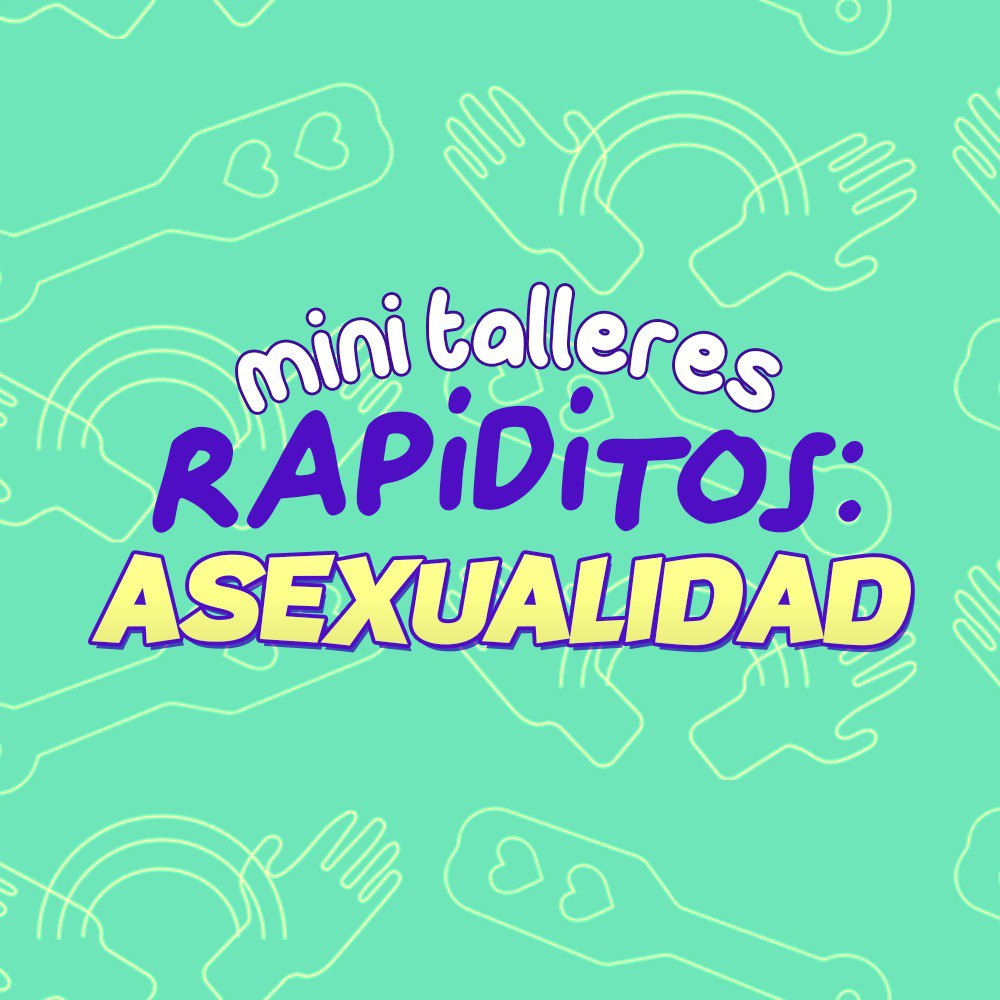
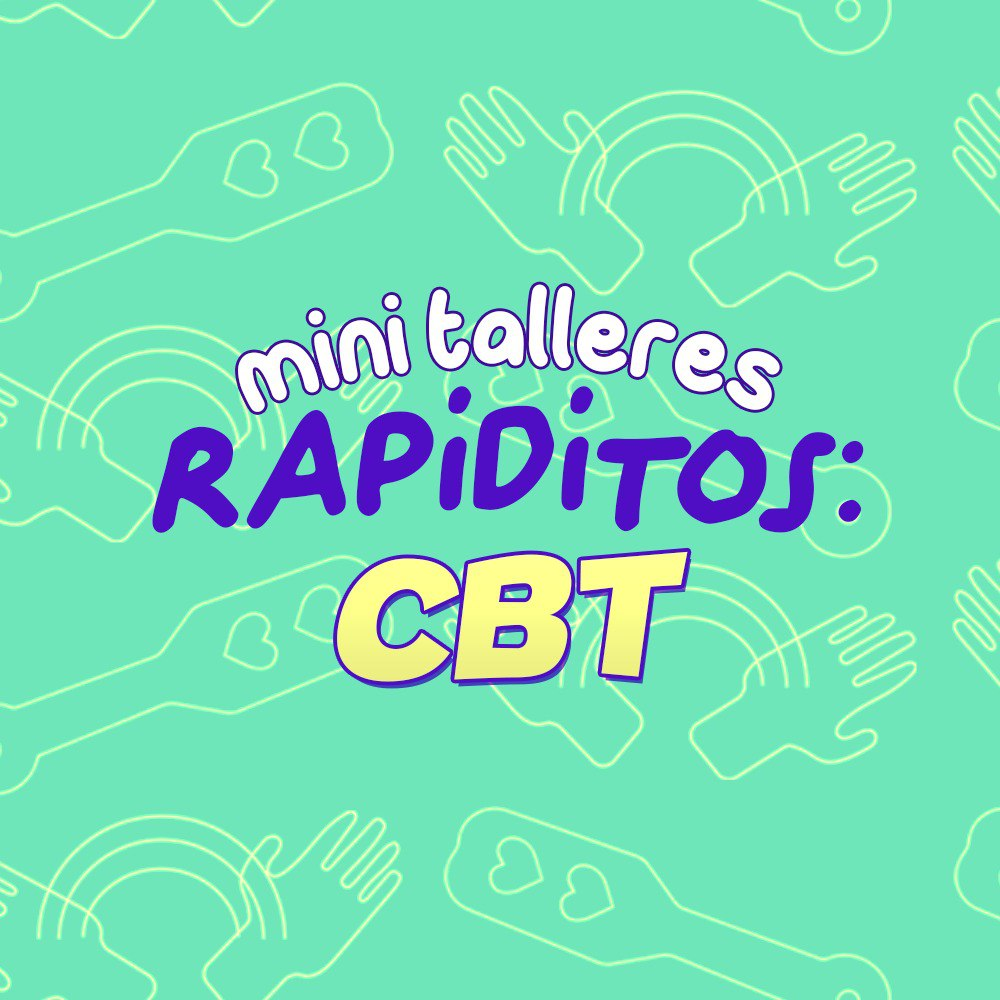
add 3 new events and update a thumbnail

Changed region(s): [[0.093, 0.527, 0.93, 0.713]]

diff --git a/src/lib/utils/hardcodedTags.js b/src/lib/utils/hardcodedTags.js
@@ -63,6 +63,7 @@ export const hardcodedTags = [
 			'jam de cuerdas',
 			'laboratorio',
 			'perfo',
+			'poesía',
 			'rancheadita',
 			'sesión en vivo',
 			'taller'
@@ -80,6 +81,7 @@ export const hardcodedTags = [
 	{ id: 'jam de cuerdas', icon: '🪢' },
 	{ id: 'laboratorio', icon: '🧪' },
 	{ id: 'perfo', icon: '🤹♂' },
+	{ id: 'poesía', icon: '✍'},
 	{ id: 'rancheadita', icon: '🧺' },
 	{ id: 'sesión en vivo', icon: '🏇' },
 	{ id: 'taller', icon: '🎓' },

diff --git a/src/lib/posts/calendario/punitivismo-teoria-y-practica-2024-09.md b/src/lib/posts/calendario/punitivismo-teoria-y-practica-2024-09.md
@@ -1,0 +1,57 @@
+---
+published_date: 2024-09-07Z-03:00
+#updated_date:   2024-03-04Z-03:00
+title: "Punitivismo: teoría y práctica (parte 1 de 2)"
+summary: '¿Cómo lidiamos con los conflictos y la violencia entre nosotres? Aprendé teoría sobre punitivismo y sumate a discutir alternativas al castigo y la cancelación en un contexto de creciente violencia social.'
+tags:
+  - español
+  # - KinkyVibe # etiqueta especial #
+  - pago # pago | gratis | a la gorra #
+  - Online # online | AMBA | Córdoba | Santa Cruz #
+  - taller
+  - antipunitivismo
+layout: calendario
+category: calendario
+authors:
+  - FugasCriticas
+  - Naza Roviello
+featured: 1
+#logo: 2
+#force_unlisted: false
+#force_unpublished: false
+status: abierto # anunciado | abierto | agotadas | cancelado #
+# opening_date: 2023-10-20Z-03:00
+start: 2024-09-28T10:30-03:00
+end:   2024-09-28T12:30-03:00
+#location: Thames 240, Ciudad Autónoma de Buenos Aires
+#location_name: Cooperativa Cultural Qi
+link: 'https://forms.gle/PSLuNbmFEqetX1MY6'
+link_text: SUMATE
+---
+(esta es la parte 1, [ver parte 2](/calendario/punitivismo-teoria-y-practica-2024-09-parte-2))
+
+## ¿De qué se trata esta propuesta? ##
+
+**¿Cómo lidiamos con los conflictos y la violencia entre nosotres?**
+
+Aprendé teoría sobre punitivismo y sumate a discutir alternativas al castigo y la cancelación en un contexto de creciente violencia social.
+
+En este taller, te invitamos a:
+
+🤓 **ENCUENTRO 1**: Aprender teoría, historia y perspectivas sobre punitivismo. Analizaremos cómo nos afecta a nivel macro, en las estructuras carcelarias e institucionales, y a nivel micro, en nuestras relaciones más cercanas.
+
+🤓 **ENCUENTRO 2**: Participar en una discusión grupal dinámica basada en situaciones concretas. Juntes, reflexionaremos sobre cómo enfrentar conflictos y violencia, explorando alternativas al castigo y la cancelación.
+
+## ¿Quiénes coordinan? #
+
+**ale devenuta** (él/elle) es educador y psicólogo. Creó @FugasCriticas , proyecto y comunidad en los que facilita espacios grupales y recursos pedagógicos desde una perspectiva disidente para construir relaciones y modos de vida menos opresivos
+
+**Naza Roviello** (él) es periodista de investigación, activista de DDHH. Trabaja en cárceles y barrios con perspectiva anti punitivista sobre las que también escribe en sus libros y trabajos no académicos.
+
+## ¿Cómo participo? #
+
+Anotate x el formulario en el botón a continuación
+
+💸 **DESCUENTO DE LANZAMIENTO X TIEMPO LIMITADO!** (hasta 10 de sept)
+
+🔥*Promos especiales para suscriptorxs de Fugas y de Naza*

diff --git a/src/lib/posts/calendario/punitivismo-teoria-y-practica-2024-09-parte-2.md b/src/lib/posts/calendario/punitivismo-teoria-y-practica-2024-09-parte-2.md
@@ -1,0 +1,57 @@
+---
+published_date: 2024-09-07Z-03:00
+#updated_date:   2024-03-04Z-03:00
+title: "Punitivismo: teoría y práctica (parte 2 de 2)"
+summary: '¿Cómo lidiamos con los conflictos y la violencia entre nosotres? Aprendé teoría sobre punitivismo y sumate a discutir alternativas al castigo y la cancelación en un contexto de creciente violencia social.'
+tags:
+  - español
+  # - KinkyVibe # etiqueta especial #
+  - pago # pago | gratis | a la gorra #
+  - Online # online | AMBA | Córdoba | Santa Cruz #
+  - taller
+  - antipunitivismo
+layout: calendario
+category: calendario
+authors:
+  - FugasCriticas
+  - Naza Roviello
+featured: 1
+#logo: 2
+#force_unlisted: false
+#force_unpublished: false
+status: abierto # anunciado | abierto | agotadas | cancelado #
+# opening_date: 2023-10-20Z-03:00
+start: 2024-10-05T10:30-03:00
+end:   2024-10-05T12:30-03:00
+#location: Thames 240, Ciudad Autónoma de Buenos Aires
+#location_name: Cooperativa Cultural Qi
+link: 'https://forms.gle/PSLuNbmFEqetX1MY6'
+link_text: SUMATE
+---
+(esta es la parte 2, [ver parte 1](/calendario/punitivismo-teoria-y-practica-2024-09))
+
+## ¿De qué se trata esta propuesta? ##
+
+**¿Cómo lidiamos con los conflictos y la violencia entre nosotres?**
+
+Aprendé teoría sobre punitivismo y sumate a discutir alternativas al castigo y la cancelación en un contexto de creciente violencia social.
+
+En este taller, te invitamos a:
+
+🤓 **ENCUENTRO 1**: Aprender teoría, historia y perspectivas sobre punitivismo. Analizaremos cómo nos afecta a nivel macro, en las estructuras carcelarias e institucionales, y a nivel micro, en nuestras relaciones más cercanas.
+
+🤓 **ENCUENTRO 2**: Participar en una discusión grupal dinámica basada en situaciones concretas. Juntes, reflexionaremos sobre cómo enfrentar conflictos y violencia, explorando alternativas al castigo y la cancelación.
+
+## ¿Quiénes coordinan? #
+
+**ale devenuta** (él/elle) es educador y psicólogo. Creó @FugasCriticas , proyecto y comunidad en los que facilita espacios grupales y recursos pedagógicos desde una perspectiva disidente para construir relaciones y modos de vida menos opresivos
+
+**Naza Roviello** (él) es periodista de investigación, activista de DDHH. Trabaja en cárceles y barrios con perspectiva anti punitivista sobre las que también escribe en sus libros y trabajos no académicos.
+
+## ¿Cómo participo? #
+
+Anotate x el formulario en el botón a continuación
+
+💸 **DESCUENTO DE LANZAMIENTO X TIEMPO LIMITADO!** (hasta 10 de sept)
+
+🔥*Promos especiales para suscriptorxs de Fugas y de Naza*

diff --git a/src/lib/posts/calendario/amichis-2024-09.md b/src/lib/posts/calendario/amichis-2024-09.md
@@ -1,0 +1,38 @@
+---
+published_date: 2024-09-07Z-03:00
+#updated_date:   2024-03-04Z-03:00
+title: Fiesta aMichis
+summary: '😻Encuentro de gatites que bailan, juegan, maullan y tienen ganas de conocer otros🐱🐱🐱'
+tags:
+  - español
+  # - KinkyVibe # etiqueta especial #
+  - pago # pago | gratis | a la gorra #
+  - AMBA # online | AMBA | Córdoba | Santa Cruz #
+  - fiesta
+  - queer
+layout: calendario
+category: calendario
+authors:
+  - CanelaProducciones
+featured: 1
+#logo: 2
+#force_unlisted: false
+#force_unpublished: false
+status: abierto # anunciado | abierto | agotadas | cancelado #
+# opening_date: 2023-10-20Z-03:00
+start: 2024-10-05T23:59-03:00
+end:   2024-10-06T03:00-03:00
+location: Av Córdoba 5217, Ciudad Autónoma de Buenos Aires
+location_name: La Casa Del Árbol
+link: 'https://www.chevayamos.com/events/8441'
+link_text: Comprar entrada
+# carrousel_background: "#f2a68f"
+# carrousel_color: "white"
+# carrousel_accent_text: ""
+# carrousel_accent_bg: ""
+---
+😻Encuentro de gatites que bailan, juegan, maullan y tienen ganas de conocer otros🐱🐱🐱
+
+Consigna (no excluyente): traer algo FELINO (orejitas, bigotes, pines, remeras, etc).
+
+🎟Comprá tu entrada y enviá el comprobante de pago por Telegram a [\@ChivyMoon](https://t.me/ChivyMoon) con tu nombre autopercibido y dni

diff --git a/src/lib/posts/calendario/hablame-sucio-2024-09.md b/src/lib/posts/calendario/hablame-sucio-2024-09.md
@@ -1,0 +1,34 @@
+---
+#published_date: 2024-02-16Z-03:00
+#updated_date:   2024-03-04Z-03:00
+title: ¡Hablame sucio!
+summary: 'Noche de poesía fetichista y feria gráfica kinky'
+tags:
+  - español
+  - KinkyVibe # etiqueta especial #
+  - pago # pago | gratis | a la gorra #
+  - AMBA # online | AMBA | Córdoba | Santa Cruz #
+  - feria
+  - poesía
+  - BDSM
+  - queer
+layout: calendario
+category: calendario
+authors:
+  - KinkyVibe
+#featured: 1
+#logo: 2
+#force_unlisted: false
+#force_unpublished: false
+status: anunciado # anunciado | abierto | agotadas | cancelado #
+# opening_date: 2023-10-20Z-03:00
+start: 2024-10-05T20:30-03:00
+end:   2024-10-05T23:30-03:00
+location: Av Estado de Israel 4116
+location_name: Casa Dasein
+link: 'https://forms.gle/8zqhY27f11VqoATP7'
+link_text: ¡Quiero feriar o pasar a leer! 
+---
+¡Más detalles pronto! Por ahora esta abierta la convocatoria a poetas y feriantes artistas
+
+

diff --git a/src/lib/posts/calendario/rapidito-2024-09-cbt.md b/src/lib/posts/calendario/rapidito-2024-09-cbt.md
@@ -16,7 +16,7 @@ category: calendario
 authors:
   - KinkyVibe
   - DemonWeb
-# featured: 1
+featured: 1
 #logo: 2
 # force_unlisted: true
 #force_unpublished: false
